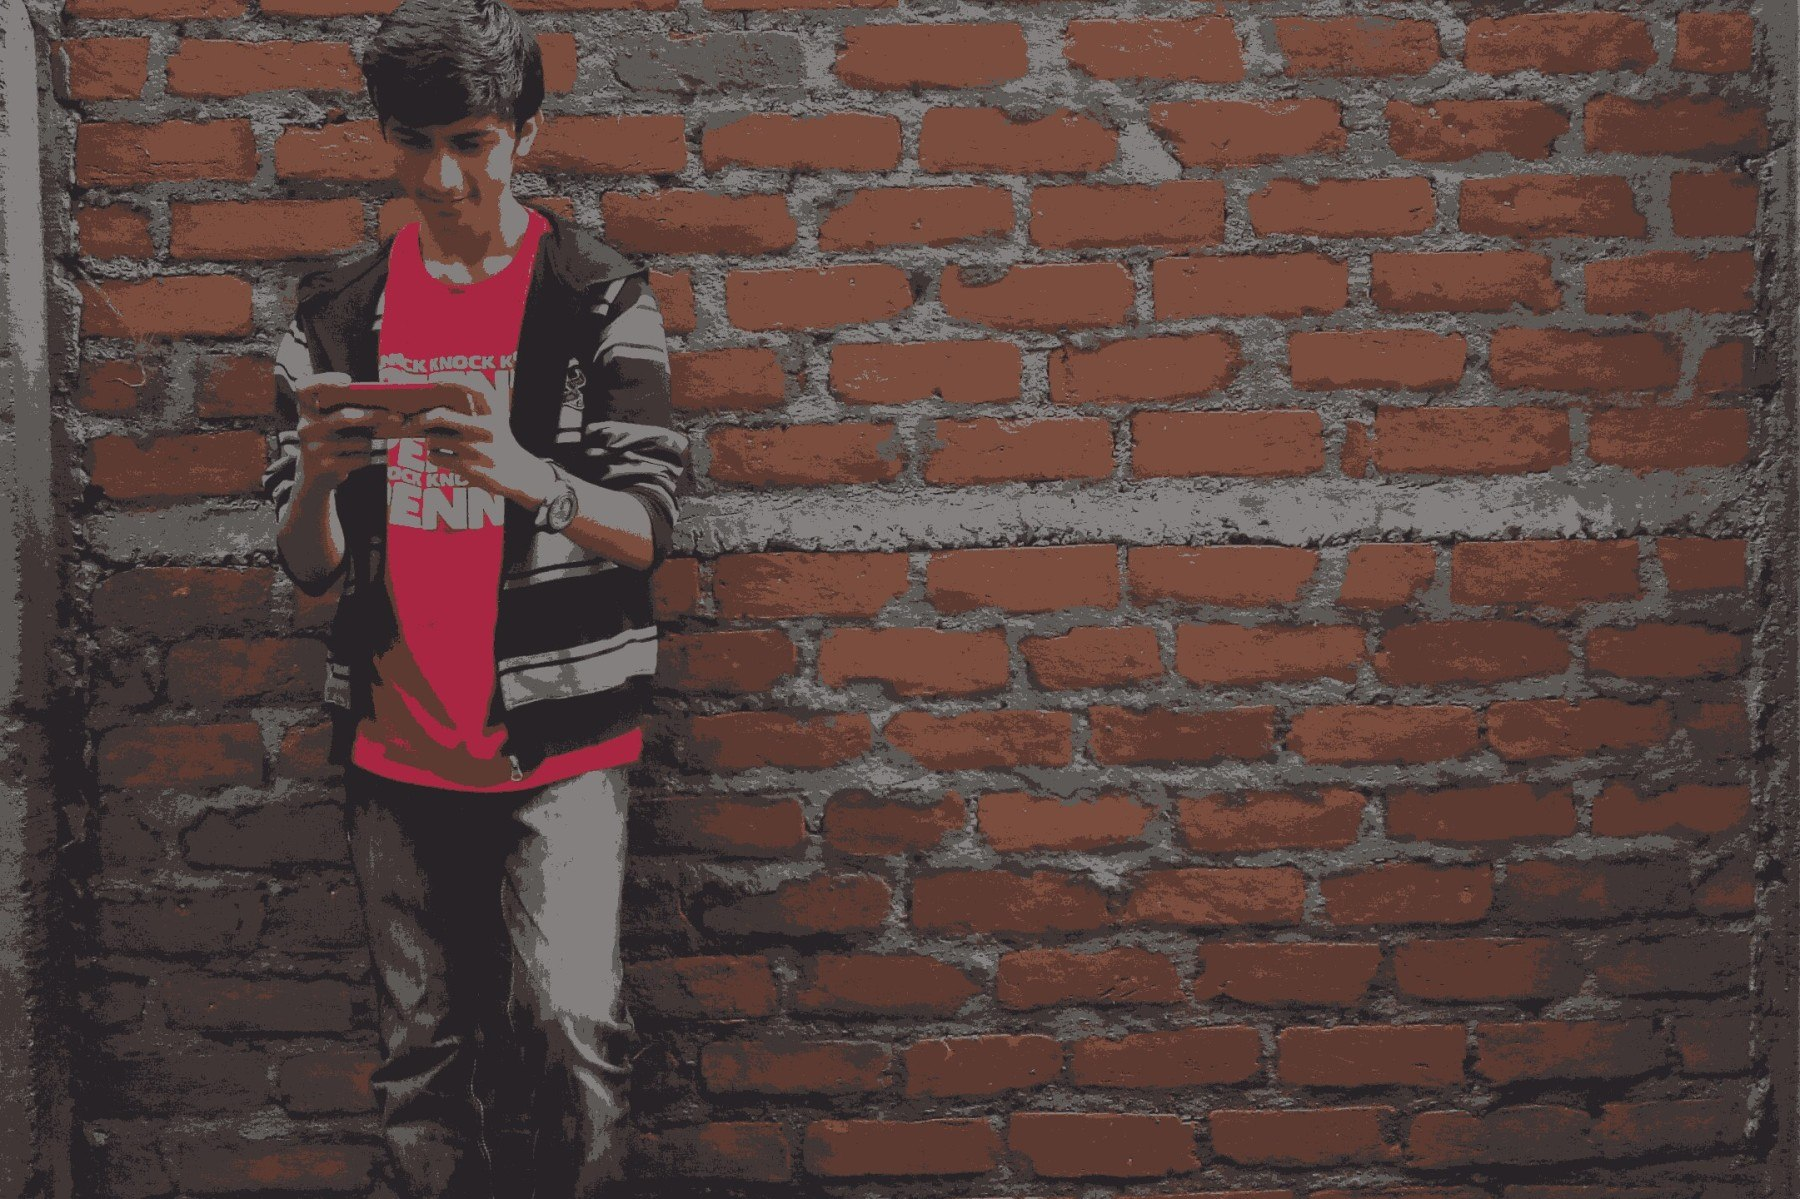
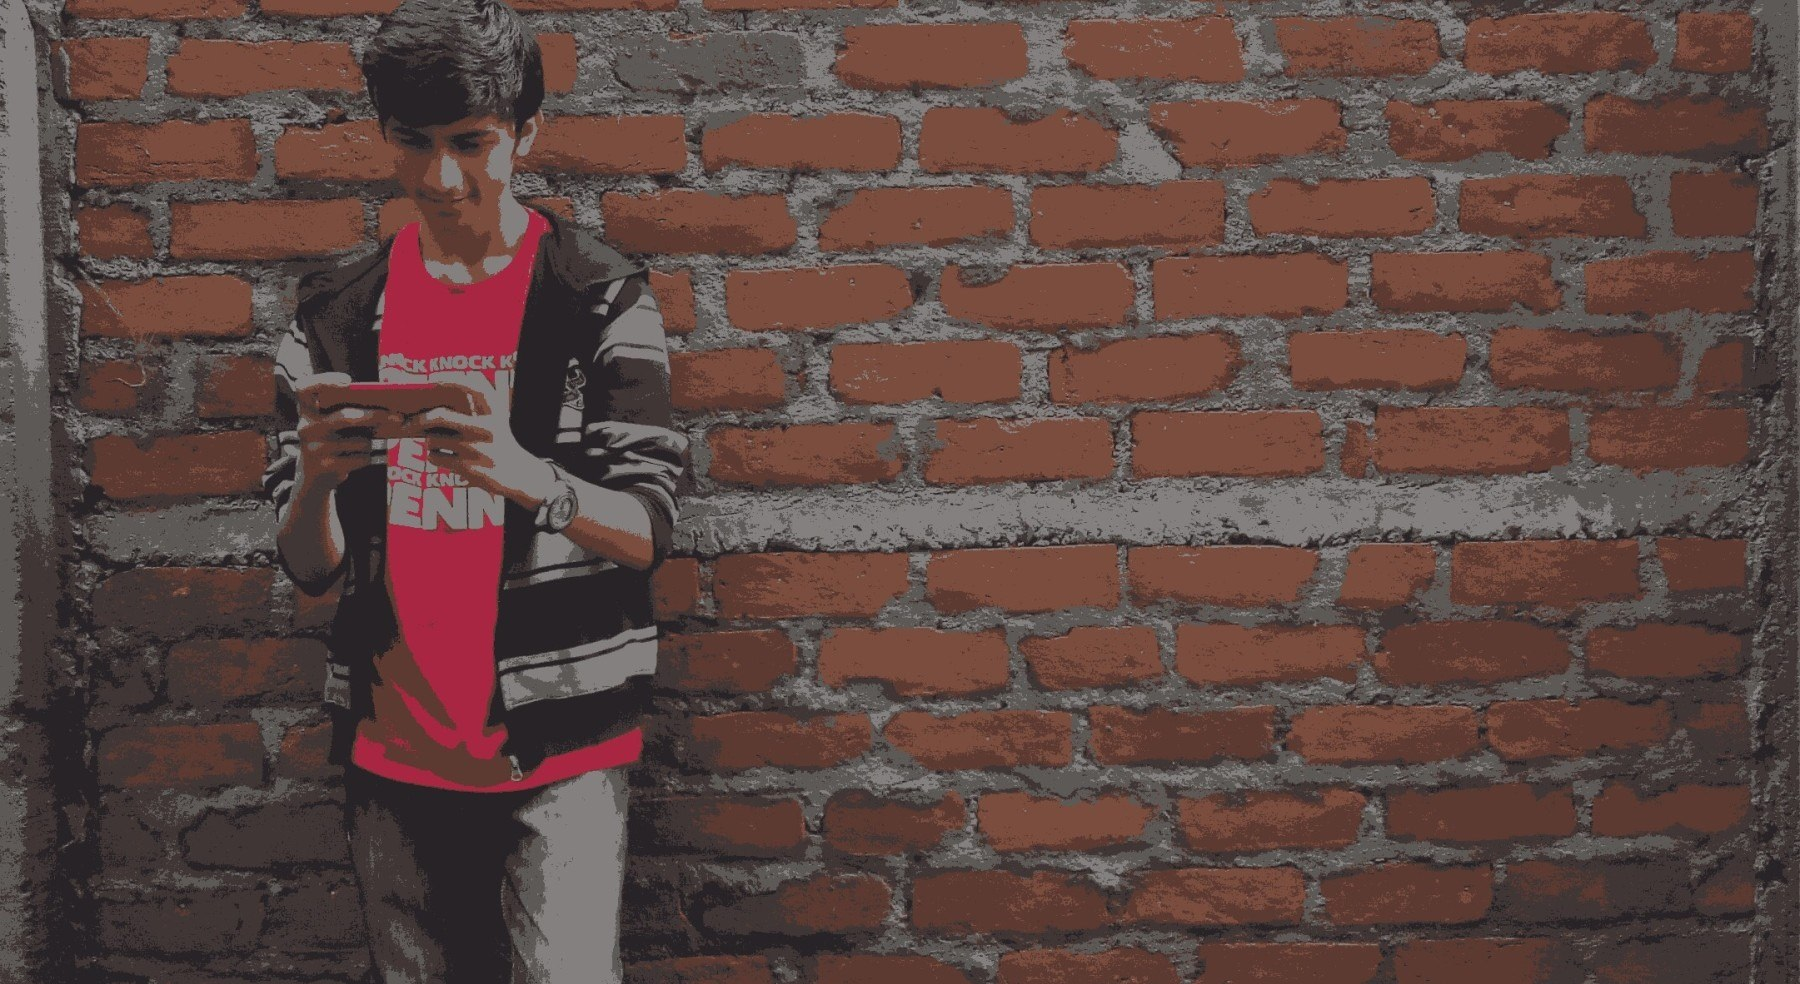
Add Facts | Crop BG Imp Properly to get back my head back in place
Yet to add timer and changeable facts

diff --git a/index.html b/index.html
@@ -6,7 +6,7 @@
 -->
 <html>
 	<head>
-		<title>Contact Card</title>
+		<title>KK1797 | Contack Card</title>
 		<meta charset="utf-8" />
 		<meta name="viewport" content="width=device-width, initial-scale=1" />
 		<!--[if lte IE 8]><script src="assets/js/html5shiv.js"></script><![endif]-->
@@ -71,13 +71,17 @@
                                 <li><a href="https://in.linkedin.com/in/kunalkene1797" class="fa-linkedin">Github</a></li>
 								<li><a href="https://www.facebook.com/Kunal.Kene.1797" class="fa-facebook">Facebook</a></li>
 							</ul>
+							<hr>
+							<p><b>What does 1797 stand for?</b><br>
+					Hint: Look at my DOB, and no! i am not 219<br>
+								   fucking years old!</p>
 						</footer>
 					</section>
 
 				<!-- Footer -->
 					<footer id="footer">
 						<ul class="copyright">
-							<li>&copy; Kunal Kene (KunalKene1797)</li>
+							<li>&copy; Kunal Kene <a href="	http://kunalkene1797.in"> (KunalKene1797.in)</a></li>
 							<li>Web Design By: <a href="http://html5up.net">HTML5 UP</a></li>
 						</ul>
 					</footer>
